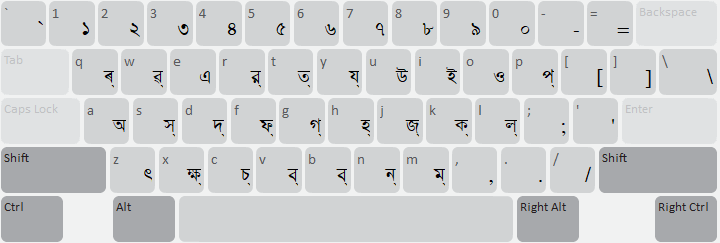
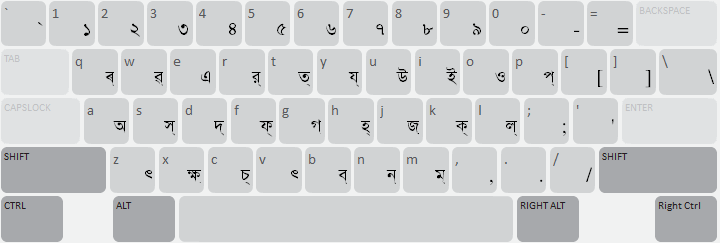
bug-fixed(itrans_bengali): update key v and unshift layout

diff --git a/release/itrans/itrans_bengali/HISTORY.md b/release/itrans/itrans_bengali/HISTORY.md
@@ -1,6 +1,12 @@
 Bengali Phonetic (ITRANS) Version History
 ===========================
 
+1.0.2 (2024-02-08)
+------------------
+* Update a character key according to the keyboard document:
+    key 'v' from ব্ to ৎ 09CE
+* Update the unshift layout of the keyboard
+
 1.0.1 (2022-05-13)
 ------------------
 * Remove duplicate ©RIGHT store
